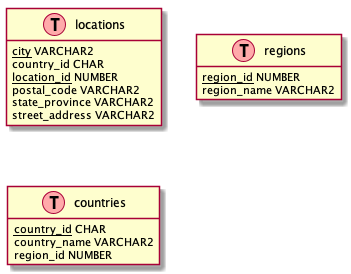
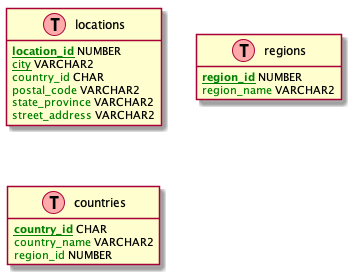
Unique and primary key attributes set ...

Changed region(s): [[0.0285, 0.146, 0.3419, 0.438], [0.0285, 0.8175, 0.3134, 0.9635], [0.5698, 0.2628, 0.8547, 0.3504]]

diff --git a/DataDictionary/AllConstraints.cs b/DataDictionary/AllConstraints.cs
@@ -1,5 +1,6 @@
 using System;
 using System.Collections.Generic;
+using System.Linq;
 using Oracle.ManagedDataAccess.Client;
 using Ora2Uml.Objects;
 
@@ -7,7 +8,9 @@ namespace Ora2Uml.DataDictionary
 {
     public class AllConstraints : Base
     {
-        internal static string TypePrimaryKey => "P";
+        internal const string TypePrimaryKey = "P";
+        internal const string TypeCheckConstraint = "C";
+        internal const string TypeUnique = "U";
 
         internal static string ColConstraintName => "constraint_name";
         internal static string ColTableName => "table_name";
@@ -21,13 +24,58 @@ namespace Ora2Uml.DataDictionary
 
         internal static string TblName => "all_constraints";
 
-/*
-    select =   "select acc.column_name from all_constraints ac, all_cons_columns acc "
-    select += "where ac.table_name = '#{table_name}' "
-    select += "and ac.owner = '#{owner}' " unless owner.nil?
-    select += "and ac.constraint_name = acc.constraint_name "
-    select += "and ac.constraint_type = 'P'"
-*/
+        internal static string ReplaceTable => "$$TABLE$$";
+        internal static string ReplaceOwner => "$$OWNER$$";
 
+        private static string SqlSelectPrimaryKey => @"SELECT
+            " + AllConsColumns.ColColumnName + @",
+            " + ColConstraintType + @"
+        FROM
+            " + TblName + @"
+            JOIN " + AllConsColumns.TblName + @" 
+                ON " + FulConstraintName + " = " + AllConsColumns.FulConstraintName + @"
+        WHERE
+            " + FulTableName + $" = '{ReplaceTable}' " + @" AND
+            " + FulOwner + $" = '{ReplaceOwner}' "; // + @" AND
+            // " + FulConstraintType + $" = '{TypePrimaryKey}' ";
+
+        internal static IList<Column> MarkPrimaryKeys(String connString, Table table, IList<Column> columns) {
+            var sqlSelect = SqlSelectPrimaryKey;
+            sqlSelect = sqlSelect.Replace(ReplaceTable, table.TableName);
+            sqlSelect = sqlSelect.Replace(ReplaceOwner, table.Owner);
+
+            try
+            {
+                using(OracleConnection conn = new OracleConnection(connString))
+                {
+                    conn.Open();
+
+                    var cmd = new OracleCommand(sqlSelect, conn);
+                    var rdr = cmd.ExecuteReader();
+
+                    while(rdr.Read())
+                    {
+                        String columnName = GetString(rdr[AllConsColumns.ColColumnName]);
+                        String constraintType = GetString(rdr[ColConstraintType]);
+
+                        switch(constraintType)
+                        {
+                            case TypePrimaryKey:
+                                columns = columns.Select(n => { if (n.ColumnName.ToUpper() == columnName.ToUpper()) { n.PrimaryKey = true; } return n; }).ToList();
+                                break;
+                            case TypeUnique:
+                                columns = columns.Select(n => { if (n.ColumnName.ToUpper() == columnName.ToUpper()) { n.Unique = true; } return n; }).ToList();
+                                break;
+                        }
+                    }   
+                }
+            }
+            catch (Exception ex)
+            {
+                Console.Error.WriteLine(ex.Message);
+            }
+            
+            return columns;
+        }
     }
 }

diff --git a/PlantUML/Template.cs b/PlantUML/Template.cs
@@ -37,12 +37,12 @@ hide stereotypes
             {
                 var tbl = $"Table({table.TableName.ToLower()}, \"{table.TableName.ToLower()}\") {{\n";
                 
-                foreach(Column column in table.Columns.OrderBy(c => c.ColumnName))
+                foreach(Column column in table.Columns.OrderBy(c => c.ColumnName).OrderBy(c => !c.PrimaryKey))
                 {
                     tbl += $"{GetColumnText(column)}\n";
                 }
 
-                tbl += "}\n";
+                tbl += "}\n\n";
                 uml += tbl;
             }
 
@@ -54,9 +54,20 @@ hide stereotypes
         private static String GetColumnText(Column column)
         {
             var result = column.ColumnName.ToLower();
+
             if (!column.Nullable)
             {
                 result = $"not_null({result})";
+            }
+
+            if (column.Unique)
+            {
+                result = $"unique({result})";
+            }
+
+            if (column.PrimaryKey)
+            {
+                result = $"primary_key({result})";
             }
 
             result += $" {column.DataType.ToUpper()}";

diff --git a/DataDictionary/Reader.cs b/DataDictionary/Reader.cs
@@ -12,6 +12,7 @@ namespace Ora2Uml.DataDictionary
             foreach (Table table in tables)
             {
                 table.Columns = AllTabColumns.ReadColumns(connectionString, table);
+                table.Columns = AllConstraints.MarkPrimaryKeys(connectionString, table, table.Columns);
             }
 
             return tables;
@@ -23,6 +24,7 @@ namespace Ora2Uml.DataDictionary
             foreach (Table table in tables)
             {
                 table.Columns = AllTabColumns.ReadColumns(connectionString, table);
+                table.Columns = AllConstraints.MarkPrimaryKeys(connectionString, table, table.Columns);
             }
 
             return tables;

diff --git a/Objects/Column.cs b/Objects/Column.cs
@@ -15,6 +15,7 @@ namespace Ora2Uml.Objects
         public Int32? DataPrecision { get; set; } = 0;
         public Int32? DataScale { get; set; } = 0;
         public String Comments { get; set; } = String.Empty;
+        public Boolean Unique { get; set; } = false;
 
         public String FullName 
         {

diff --git a/README.md b/README.md
@@ -1,6 +1,6 @@
 # ora2uml
 
-Generate [PlantUML](https://plantuml.com) dot files from Oracle data dictionary.
+Generate [PlantUML](https://plantuml.com) dot files from Oracle data dictionary. Idea and PlantUML template from [QuantumGhost's exampl.puml Gits](https://gist.github.com/QuantumGhost/0955a45383a0b6c0bc24f9654b3cb561).
 
 Sample image:
 
